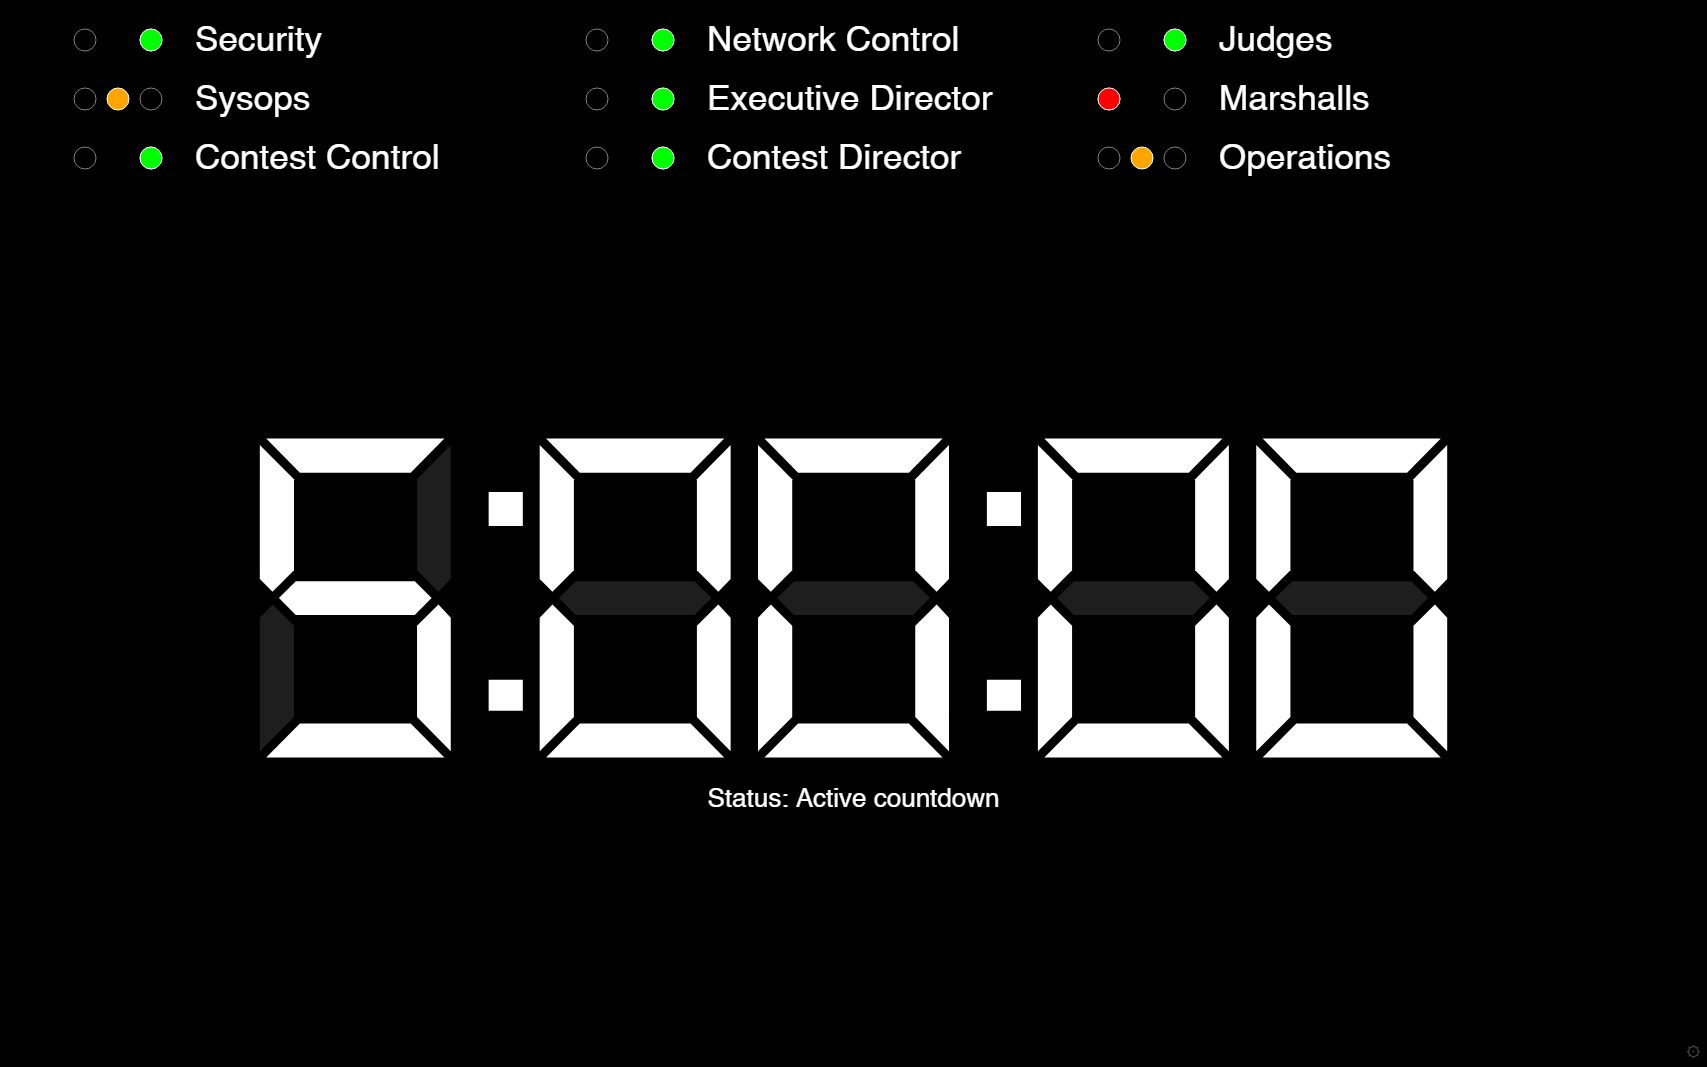
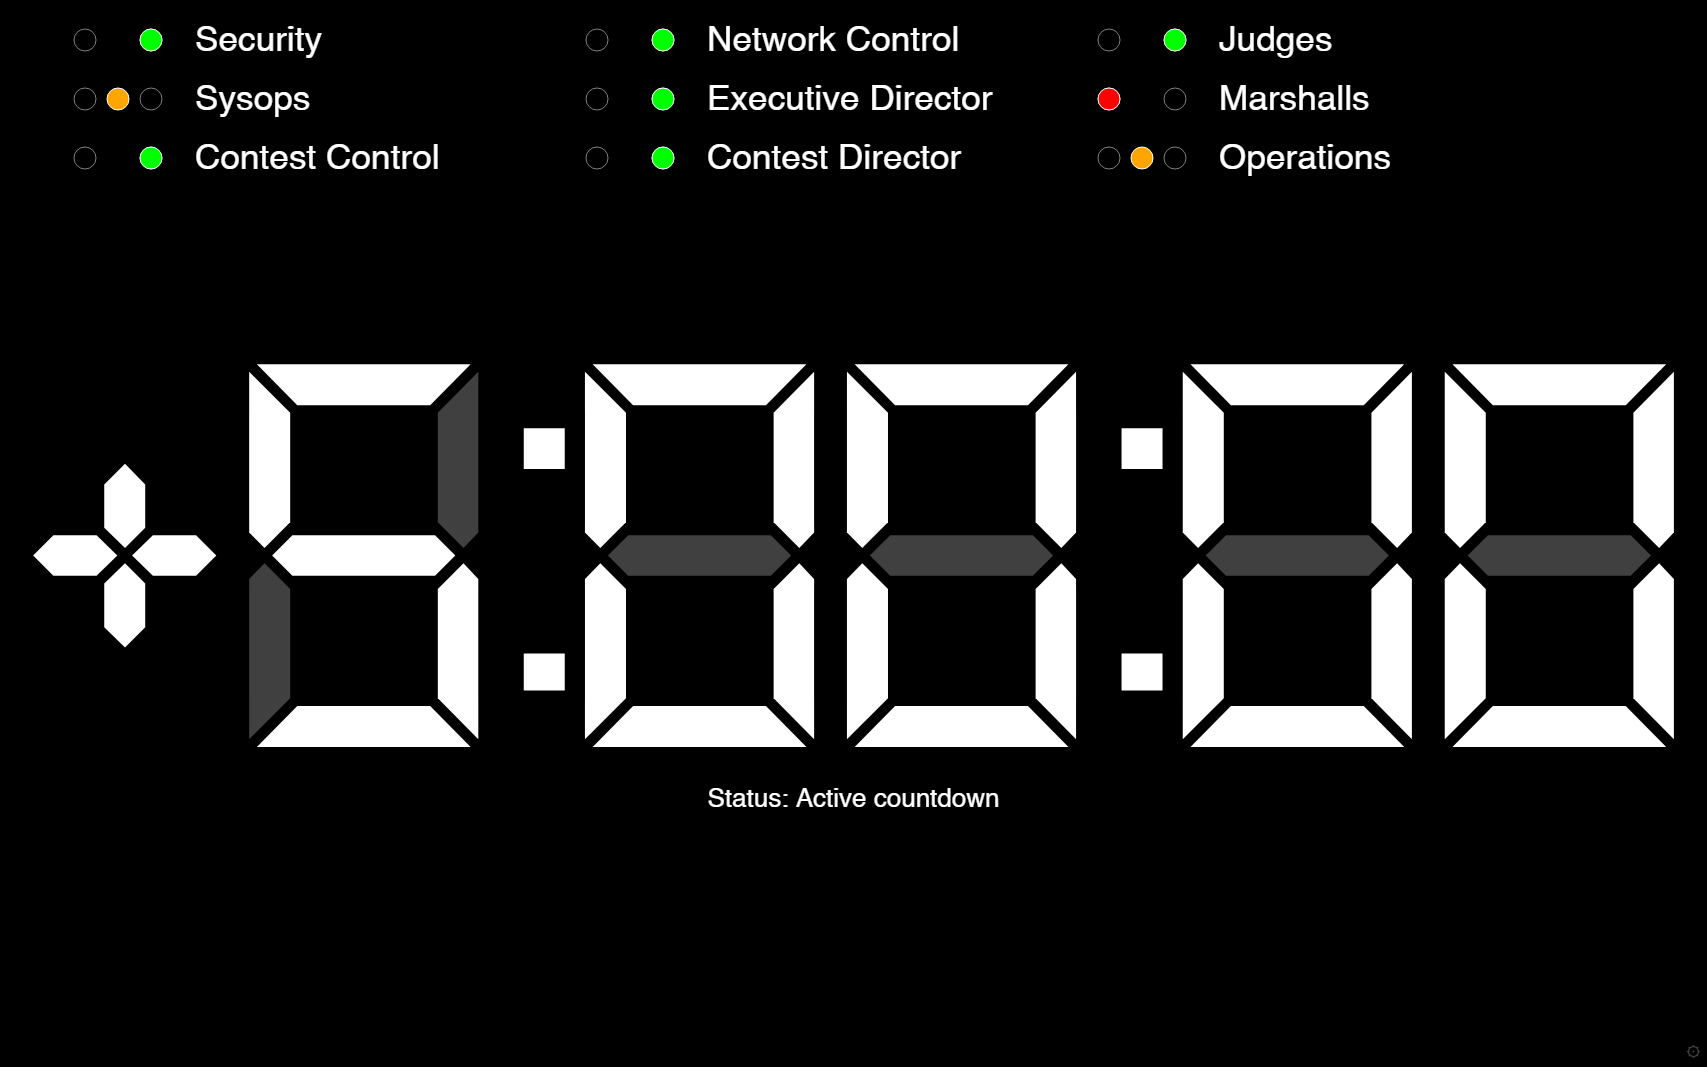
fix: 倒计时按 ClockPresentation 取值（yh=min(0.225W,0.55H)、带 + 号、DARK_GRAY 灭段）+ 补加号多边形

Changed region(s): [[0.0, 0.3402, 0.9936, 0.7113]]

diff --git a/src/countdown-canvas.js b/src/countdown-canvas.js
@@ -56,20 +56,26 @@ function drawStatus(ctx, W, H, px, py, label, status) {
  * @param remainMs 剩余毫秒（负数=还没开始）
  * @param running 比赛是否进行中
  */
-export function drawCountdown(ctx, W, H, sites, remainMs, running) {
+export function drawCountdown(ctx, W, H, sites, remainMs, running, verticalOffset = 0) {
   ctx.fillStyle = '#000';
   ctx.fillRect(0, 0, W, H);
   ctx.textAlign = 'left';
   ctx.textBaseline = 'middle';
 
-  // 七段数字：DigitalFont 移植，灭段用暗灰一起画（仪表盘观感）
-  const str = fmtClock(remainMs, true);
-  let digitH = H * 0.30;
-  let w = digitalWidth(str, digitH);
-  const avail = W * 0.90;
-  if (w > avail) { digitH *= avail / w; w = digitalWidth(str, digitH); }
-  const bottomY = H * 0.56 + digitH / 2;          // 左下角 y
-  drawDigital(ctx, str, (W - w) / 2, bottomY, digitH, '#fff', '#1e1e1e');
+  // 七段数字 —— ClockPresentation.paint
+  //   yh = min(0.225*width, height*0.55)，超宽再缩
+  //   x = (width-w)/2，y = (height + height/2.5)/2（左下角）
+  //   非负数补 '+'，负数用 '-'
+  //   bg = DARK_GRAY
+  let time = fmtClock(remainMs, true);
+  if (!time.startsWith('-')) time = '+' + time;      // ClockPresentation:74
+
+  let yh = Math.min(0.225 * W, H * 0.55);
+  let w = digitalWidth(time, yh);
+  if (w > W) { yh = yh * W / w; w = digitalWidth(time, yh); }
+
+  const bottomY = (H + H / 2.5) / 2 - verticalOffset;
+  drawDigital(ctx, time, (W - w) / 2, bottomY, yh, '#fff', 'rgb(64,64,64)');
 
   // 状态文字（源码：y = (H + H/2.5)/2 + fm.getHeight()*2）
   let s = 'Status: Go';

diff --git a/src/digital-font.js b/src/digital-font.js
@@ -22,6 +22,14 @@ const SEGMENTS = [
 const COLON_TOP = [[1210, -7406], [1210, -8499], [2303, -8499], [2303, -7406]];
 const COLON_BOTTOM = [[1210, -1501], [1210, -2491], [2303, -2491], [2303, -1501]];
 
+// 加号：4 块（源码 index 10-13）
+const PLUS_PARTS = [
+  [[3863, -5845], [3324, -5306], [2770, -5845], [2770, -6997], [3324, -7551], [3863, -6997]],
+  [[5758, -5102], [5219, -4562], [4067, -4562], [3513, -5102], [4067, -5642], [5219, -5642]],
+  [[3119, -5102], [2566, -4562], [1414, -4562], [874, -5102], [1414, -5642], [2566, -5642]],
+  [[3863, -3193], [3324, -2653], [2770, -3193], [2770, -4359], [3324, -4898], [3863, -4359]],
+];
+
 // 减号
 const MINUS = [[5219, -5642], [5758, -5102], [5219, -4562], [1414, -4562], [874, -5102], [1414, -5642]];
 
@@ -94,6 +102,11 @@ export function drawDigital(ctx, s, x, y, h, fg, bg) {
       poly(ctx, MINUS, cur, y, scale);
       cur += ADVANCE_MINUS * scale;            // 130
 
+    } else if (c === '+') {
+      ctx.fillStyle = fg;
+      for (const part of PLUS_PARTS) poly(ctx, part, cur, y, scale);
+      cur += ADVANCE_MINUS * scale;
+
     } else if (c === '.') {
       ctx.fillStyle = fg;
       poly(ctx, COLON_BOTTOM, cur, y, scale);
@@ -113,7 +126,7 @@ export function digitalWidth(s, h) {
   for (const c of s) {
     if (DIGIT_MAP[c]) w += ADVANCE_DIGIT;
     else if (c === ':') w += ADVANCE_COLON;
-    else if (c === '-') w += ADVANCE_MINUS;
+    else if (c === '-' || c === '+') w += ADVANCE_MINUS;
     else if (c === '.') w += ADVANCE_COLON;
   }
   return w * scale;
